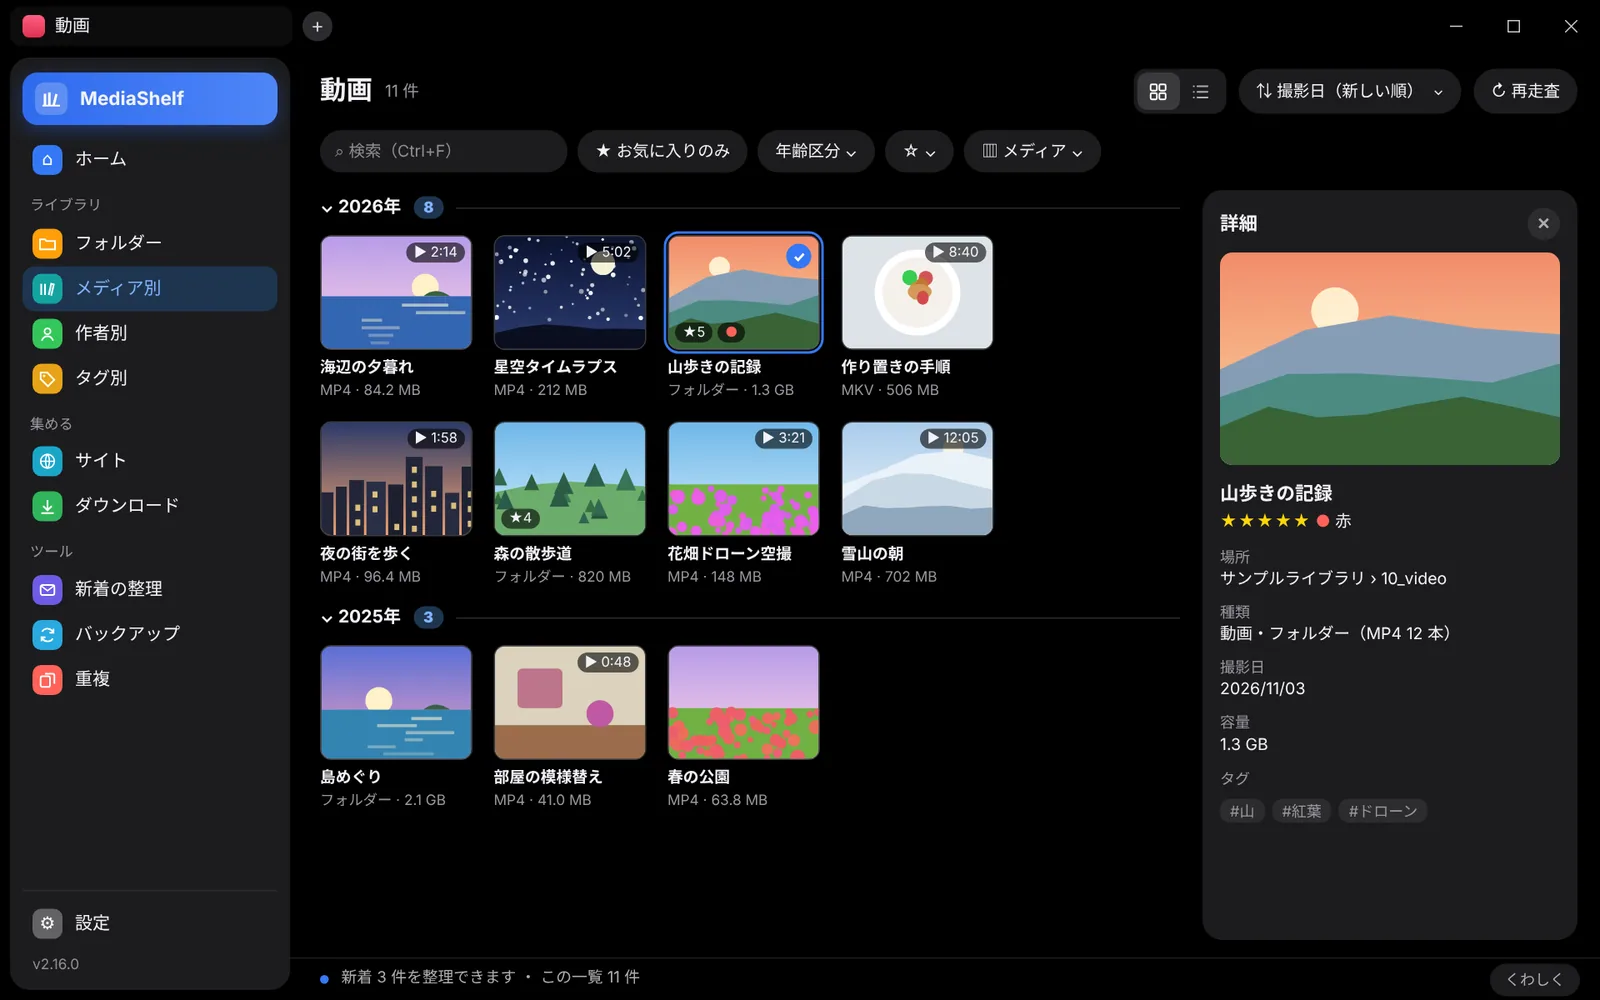
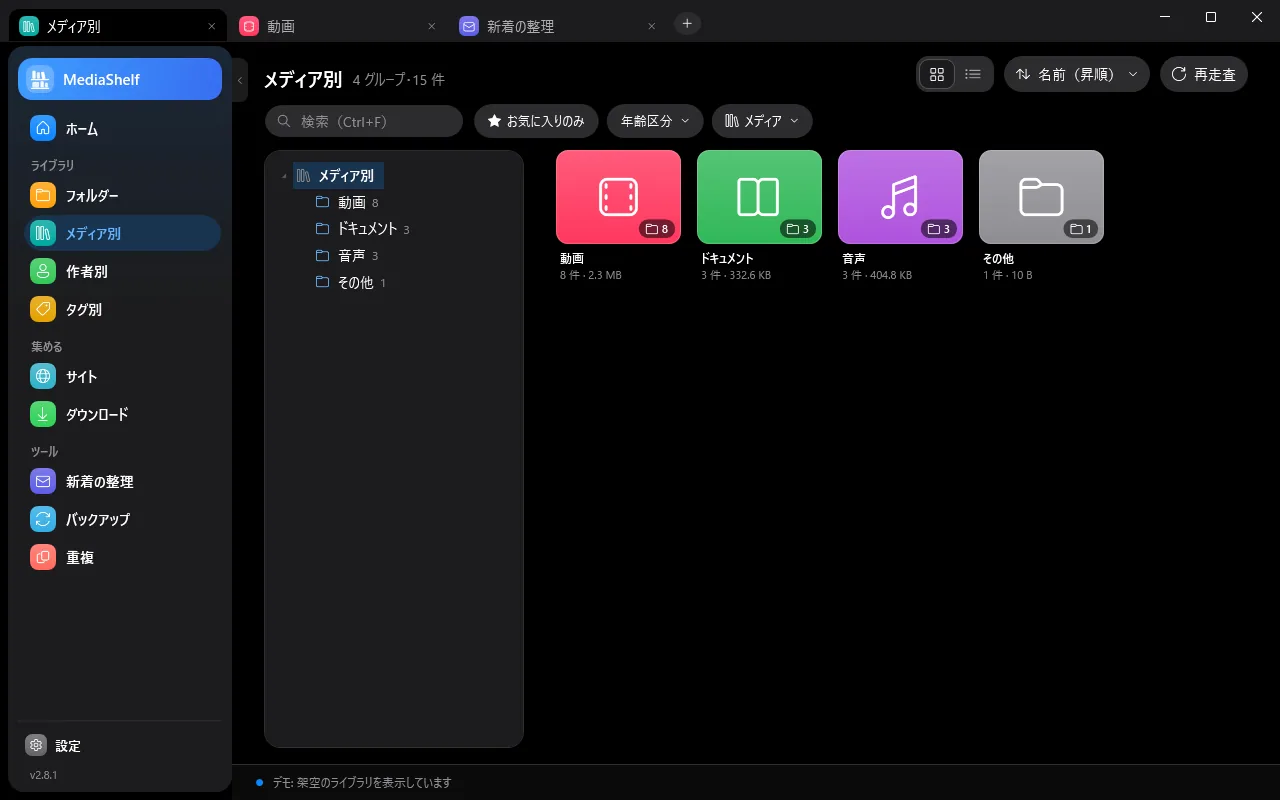
MediaShelf の画面の例を本物の画面にする
- 見本のライブラリ（架空）で描いた MediaShelf の画面 4 枚（メディア別・マンガを読む・音声を聴く・集める（YouTube））に差し替える
- 再現した HTML（screens/src/mediashelf-*.html）は使わなくなったので消す
- .gitignore は node_modules をリンクでも無視するようにする

Claude-Session: https://claude.ai/code/session_01JH5snZBS1RQnahqZF3PSho

diff --git a/data/screens.js b/data/screens.js
@@ -113,16 +113,38 @@ window.KSANHUB_SCREENS = {
   {
    "title": "メディア別",
    "src": "screens/mediashelf-1.webp",
-   "w": 1600,
-   "h": 1000,
-   "frame": "bare"
+   "w": 1280,
+   "h": 800,
+   "frame": "bare",
+   "real": true,
+   "note": "アプリの見本のライブラリ（架空）で描いた本物の画面です"
   },
   {
-   "title": "作者別",
+   "title": "マンガを読む",
    "src": "screens/mediashelf-2.webp",
-   "w": 1600,
-   "h": 1000,
-   "frame": "bare"
+   "w": 1280,
+   "h": 800,
+   "frame": "bare",
+   "real": true,
+   "note": "アプリの見本のライブラリ（架空）で描いた本物の画面です"
+  },
+  {
+   "title": "音声を聴く",
+   "src": "screens/mediashelf-3.webp",
+   "w": 1280,
+   "h": 800,
+   "frame": "bare",
+   "real": true,
+   "note": "アプリの見本のライブラリ（架空）で描いた本物の画面です"
+  },
+  {
+   "title": "集める（YouTube）",
+   "src": "screens/mediashelf-4.webp",
+   "w": 1280,
+   "h": 800,
+   "frame": "bare",
+   "real": true,
+   "note": "アプリの見本のライブラリ（架空）で描いた本物の画面です"
   }
  ],
  "instavault": [
